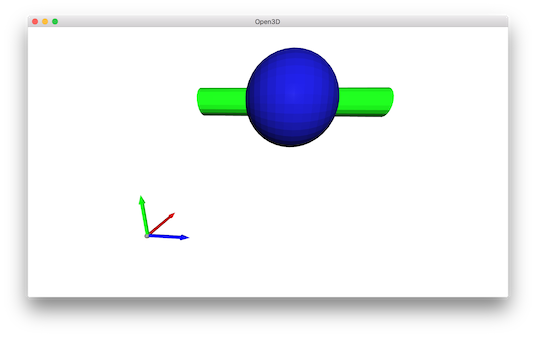
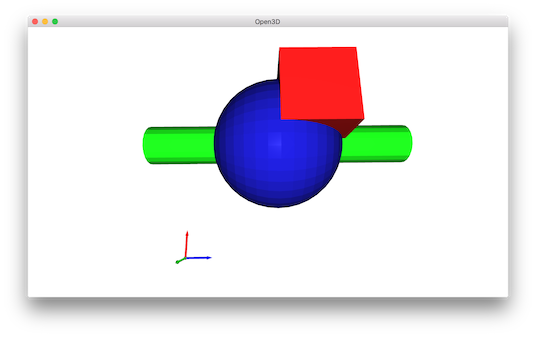
updating tutorial and document to introduce cubic premitive

Changed region(s): [[0.2388, 0.1187, 0.7761, 0.6231], [0.2388, 0.5935, 0.3881, 0.8012]]

diff --git a/examples/Python/Basic/visualization.py b/examples/Python/Basic/visualization.py
@@ -14,6 +14,9 @@ if __name__ == "__main__":
     draw_geometries([pcd])
 
     print("Let\'s draw some primitives")
+    mesh_cubic = create_mesh_cubic(width = 1.0, height = 1.0, depth = 1.0)
+    mesh_cubic.compute_vertex_normals()
+    mesh_cubic.paint_uniform_color([0.9, 0.1, 0.1])
     mesh_sphere = create_mesh_sphere(radius = 1.0)
     mesh_sphere.compute_vertex_normals()
     mesh_sphere.paint_uniform_color([0.1, 0.1, 0.7])
@@ -23,12 +26,12 @@ if __name__ == "__main__":
     mesh_frame = create_mesh_coordinate_frame(size = 0.6, origin = [-2, -2, -2])
 
     print("We draw a few primitives using collection.")
-    draw_geometries([mesh_sphere, mesh_cylinder, mesh_frame])
+    draw_geometries([mesh_cubic, mesh_sphere, mesh_cylinder, mesh_frame])
 
     print("We draw a few primitives using + operator of mesh.")
-    draw_geometries([mesh_sphere + mesh_cylinder + mesh_frame])
+    draw_geometries([mesh_cubic + mesh_sphere + mesh_cylinder + mesh_frame])
 
-    print("Let\'s draw a cubic that consists of 8 points and 12 lines")
+    print("Let\'s draw a cubic using LineSet")
     points = [[0,0,0],[1,0,0],[0,1,0],[1,1,0],
               [0,0,1],[1,0,1],[0,1,1],[1,1,1]]
     lines = [[0,1],[0,2],[1,3],[2,3],

diff --git a/docs/tutorial/Basic/visualization.rst b/docs/tutorial/Basic/visualization.rst
@@ -95,11 +95,11 @@ Geometry primitives
 .. literalinclude:: ../../../examples/Python/Basic/visualization.py
    :language: python
    :lineno-start: 16
-   :lines: 16-23
+   :lines: 16-26
    :linenos:
 
-This script generates a sphere and a cylinder using ``create_mesh_sphere`` and
-``create_mesh_cylinder``.  The sphere is painted in blue. The cylinder is painted in green. Normals are computed for both meshes to support the Phong shading (see :ref:`visualize_3d_mesh` and :ref:`surface_normal_estimation`). We can even create a coordinate axis using ``create_mesh_coordinate_frame``, with its origin point set at (-2, -2, -2).
+This script generates a cubic, a sphere, and a cylinder using ``create_mesh_cubic``, ``create_mesh_sphere`` and
+``create_mesh_cylinder``.  The cubic is painted in red, sphere is painted in blue, and the cylinder is painted in green. Normals are computed for both meshes to support the Phong shading (see :ref:`visualize_3d_mesh` and :ref:`surface_normal_estimation`). We can even create a coordinate axis using ``create_mesh_coordinate_frame``, with its origin point set at (-2, -2, -2).
 
 .. _draw_multiple_geometries:
 
@@ -108,8 +108,8 @@ Draw multiple geometries
 
 .. literalinclude:: ../../../examples/Python/Basic/visualization.py
    :language: python
-   :lineno-start: 25
-   :lines: 25-29
+   :lineno-start: 28
+   :lines: 28-32
    :linenos:
 
 ``draw_geometries`` takes a list of geometries and renders them all together. Alternatively, ``TriangleMesh`` supports a ``+`` operator to combine multiple meshes into one. We recommend the first approach since it supports a combination of different geometries (e.g., a mesh can be rendered in tandem with a point cloud).
@@ -124,8 +124,8 @@ Draw line set
 
 .. literalinclude:: ../../../examples/Python/Basic/visualization.py
    :language: python
-   :lineno-start: 31
-   :lines: 31-42
+   :lineno-start: 34
+   :lines: 34-45
    :linenos:
 
 To draw lines, it is necessary to define ``LineSet`` and create a set of points and a set of edges. An edge is a pair of point indices. The above example creates custom ``points`` and edges (denoted as ``lines``) to make a cubic. Color is optional - red color ``[1,0,0]`` is assigned to each edge in this example. This script visualizes the following cubic.
